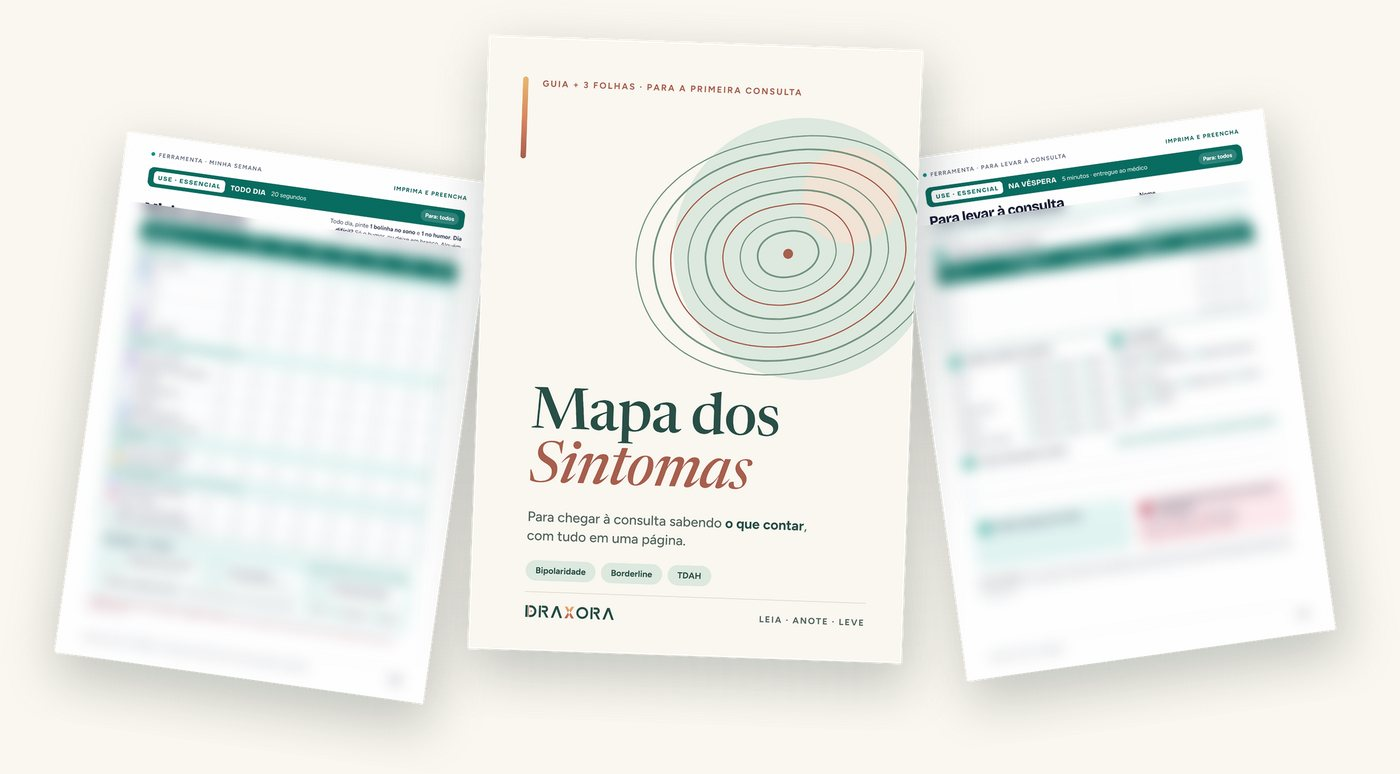
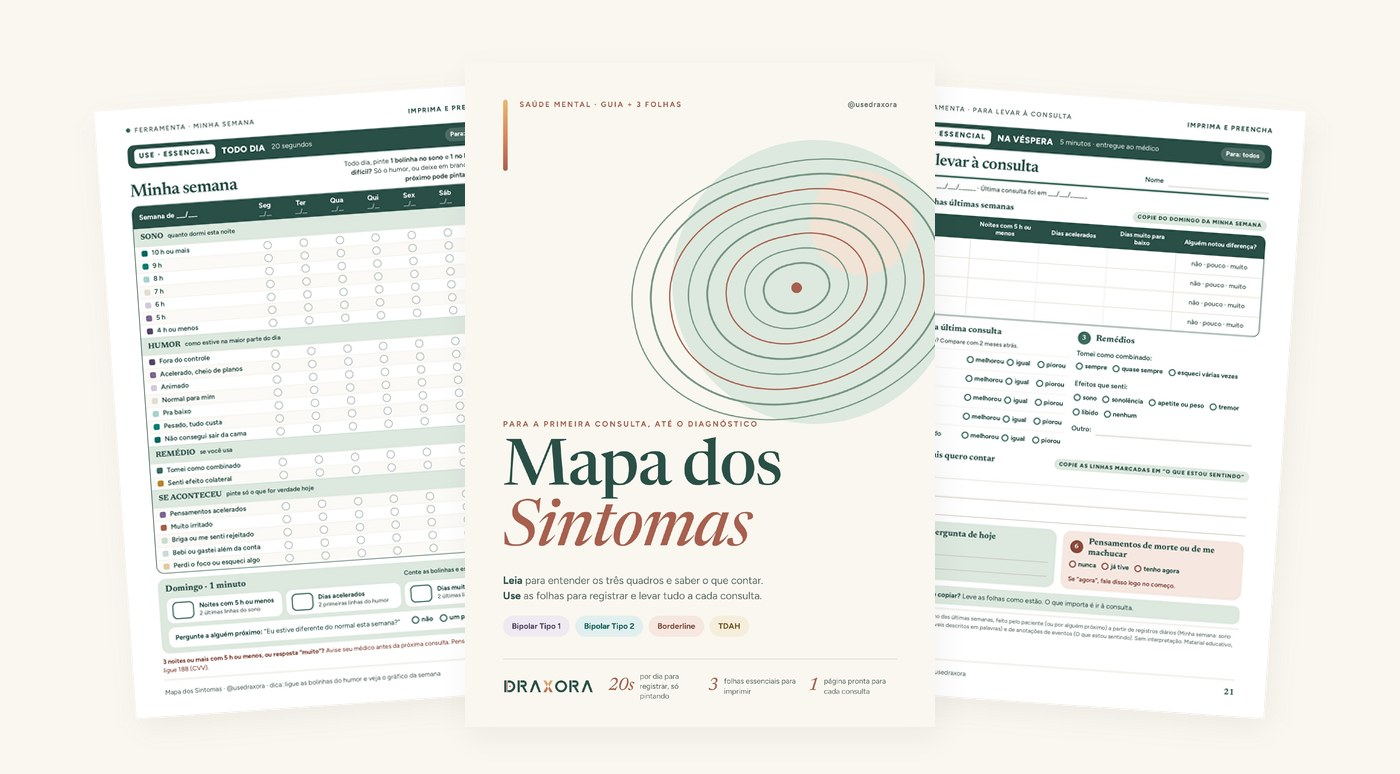
Página do Mapa: imagens com as páginas reais do guia (sem desfoque nem selo de prévia)
O guia passou a ser gratuito; o Elias pediu para mostrar as páginas normais (25/10).

Claude-Session: https://claude.ai/code/session_013hw32YeBtKAWYbxuXzWhPS

Changed region(s): [[0.0307, 0.093, 0.9829, 0.9302], [0.43, 0.093, 0.5529, 0.155], [0.5529, 0.7752, 0.5836, 0.8062]]

diff --git a/mapa-dos-sintomas/index.html b/mapa-dos-sintomas/index.html
@@ -169,7 +169,7 @@
             <li>as semanas ficam registradas em 20 segundos por dia</li>
             <li>você entrega 1 página e a conversa começa do ponto certo</li>
           </ul>
-          <picture><source srcset="../assets/img/v5/paraconsulta.webp" type="image/webp"><img src="../assets/img/v5/paraconsulta.jpg" alt="" width="700" height="880" loading="lazy"></picture>
+          <picture><source srcset="../assets/img/v5/paraconsulta.webp" type="image/webp"><img src="../assets/img/v5/paraconsulta.jpg" alt="Folha Para levar à consulta" width="700" height="880" loading="lazy"></picture>
         </div>
       </div>
       <p class="note">Você conta melhor. Quem avalia é sempre o profissional.</p>
@@ -185,7 +185,7 @@
           <h2 class="t t-l">Entenda os três quadros, <em>sem jargão</em>.</h2>
           <p class="lead">Bipolar 1 e 2, borderline e TDAH, e os detalhes que vale a pena observar antes da consulta. Fatos, não rótulos. Para observar e contar, nunca para se diagnosticar.</p>
         </div>
-        <figure class="feat-img"><picture><source srcset="../assets/img/v5/observar.webp" type="image/webp"><img src="../assets/img/v5/observar.jpg" alt="Prévia desfocada das páginas O que vale a pena observar" width="1200" height="900" loading="lazy"></picture><figcaption class="prev-tag">Prévia</figcaption></figure>
+        <figure class="feat-img"><picture><source srcset="../assets/img/v5/observar.webp" type="image/webp"><img src="../assets/img/v5/observar.jpg" alt="Páginas do capítulo 4 do guia: detalhes que vale a pena observar" width="1200" height="900" loading="lazy"></picture></figure>
       </div>
       <div class="feat rev">
         <div class="feat-copy">
@@ -193,7 +193,7 @@
           <h2 class="t t-l">20 segundos por dia. <em>Só pintar.</em></h2>
           <p class="lead">Sem escrever e sem dar nota. Dia difícil? Só o humor já vale.</p>
         </div>
-        <figure class="feat-img areia"><picture><source srcset="../assets/img/v5/semana.webp" type="image/webp"><img src="../assets/img/v5/semana.jpg" alt="Prévia desfocada da folha Minha semana" width="900" height="1140" loading="lazy" style="width:100%;max-width:440px;margin:0 auto"></picture><figcaption class="prev-tag">Prévia</figcaption></figure>
+        <figure class="feat-img areia"><picture><source srcset="../assets/img/v5/semana.webp" type="image/webp"><img src="../assets/img/v5/semana.jpg" alt="Folha Minha semana: sono, humor e remédio, uma bolinha por dia" width="900" height="1140" loading="lazy" style="width:100%;max-width:440px;margin:0 auto"></picture></figure>
       </div>
       <div class="feat">
         <div class="feat-copy">
@@ -202,7 +202,7 @@
           <p class="lead">A Ficha conta sua história uma vez. A página da consulta resume as semanas. Você entrega e a conversa começa do ponto certo.</p>
           <div><a class="btn btn-primary btn-lg" href="#amostra">Quero o guia grátis</a></div>
         </div>
-        <figure class="feat-img"><picture><source srcset="../assets/img/v5/consulta.webp" type="image/webp"><img src="../assets/img/v5/consulta.jpg" alt="Prévia desfocada da Ficha e da página Para levar à consulta" width="1200" height="900" loading="lazy"></picture><figcaption class="prev-tag">Prévia</figcaption></figure>
+        <figure class="feat-img"><picture><source srcset="../assets/img/v5/consulta.webp" type="image/webp"><img src="../assets/img/v5/consulta.jpg" alt="Folhas Ficha da primeira consulta e Para levar à consulta" width="1200" height="900" loading="lazy"></picture></figure>
       </div>
     </div>
   </section>
